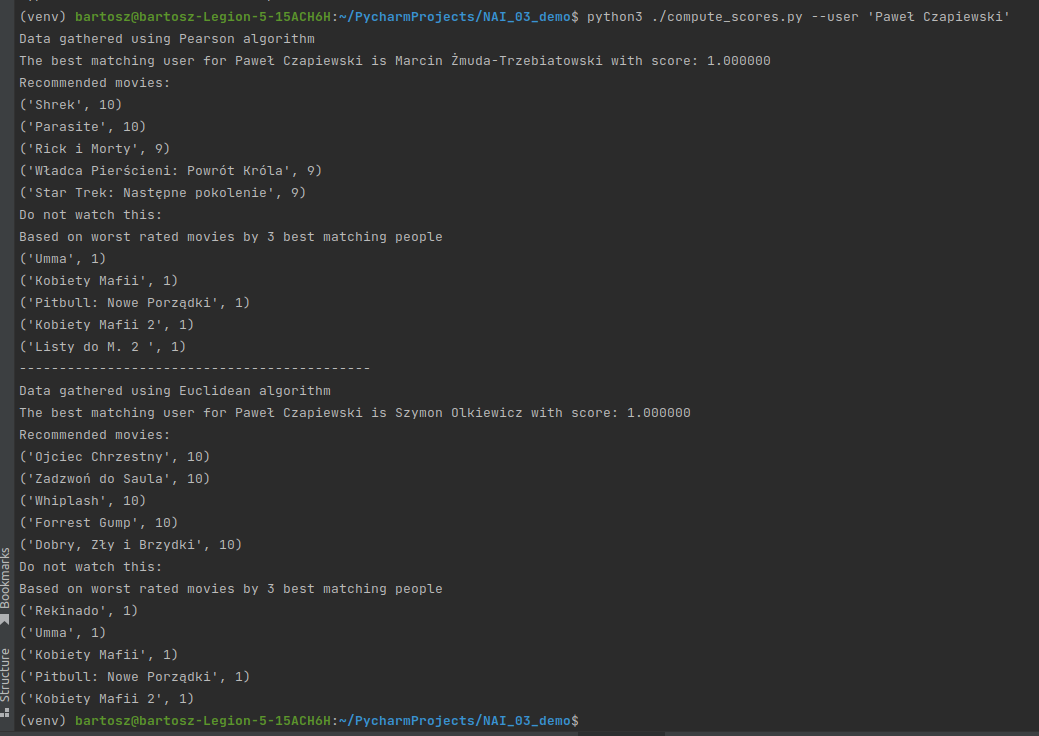
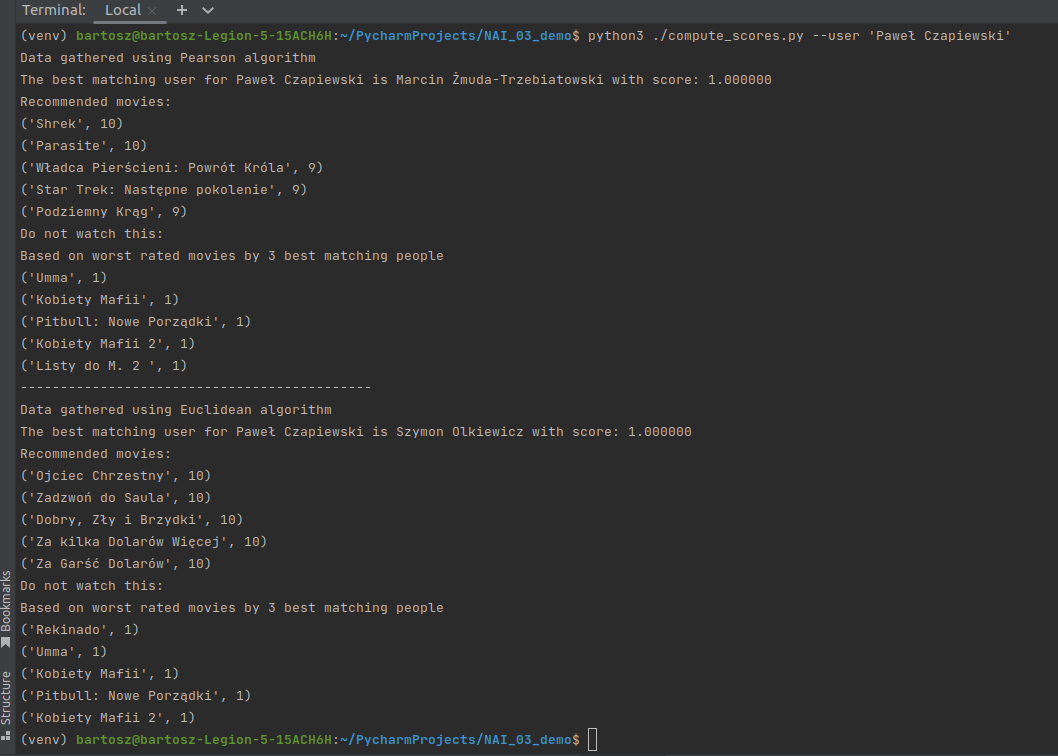
addid condition for seen movies

Changed region(s): [[0.0, 0.0, 0.9548, 1.0]]

diff --git a/zad3/compute_scores.py b/zad3/compute_scores.py
@@ -187,7 +187,7 @@ def printMovies(movieList, mainUserMovies):
     """
     counter = 0
     for i in movieList:
-        if i not in mainUserMovies and counter < 5:
+        if i[0] not in mainUserMovies and counter < 5:
             print(i)
             counter += 1
 
